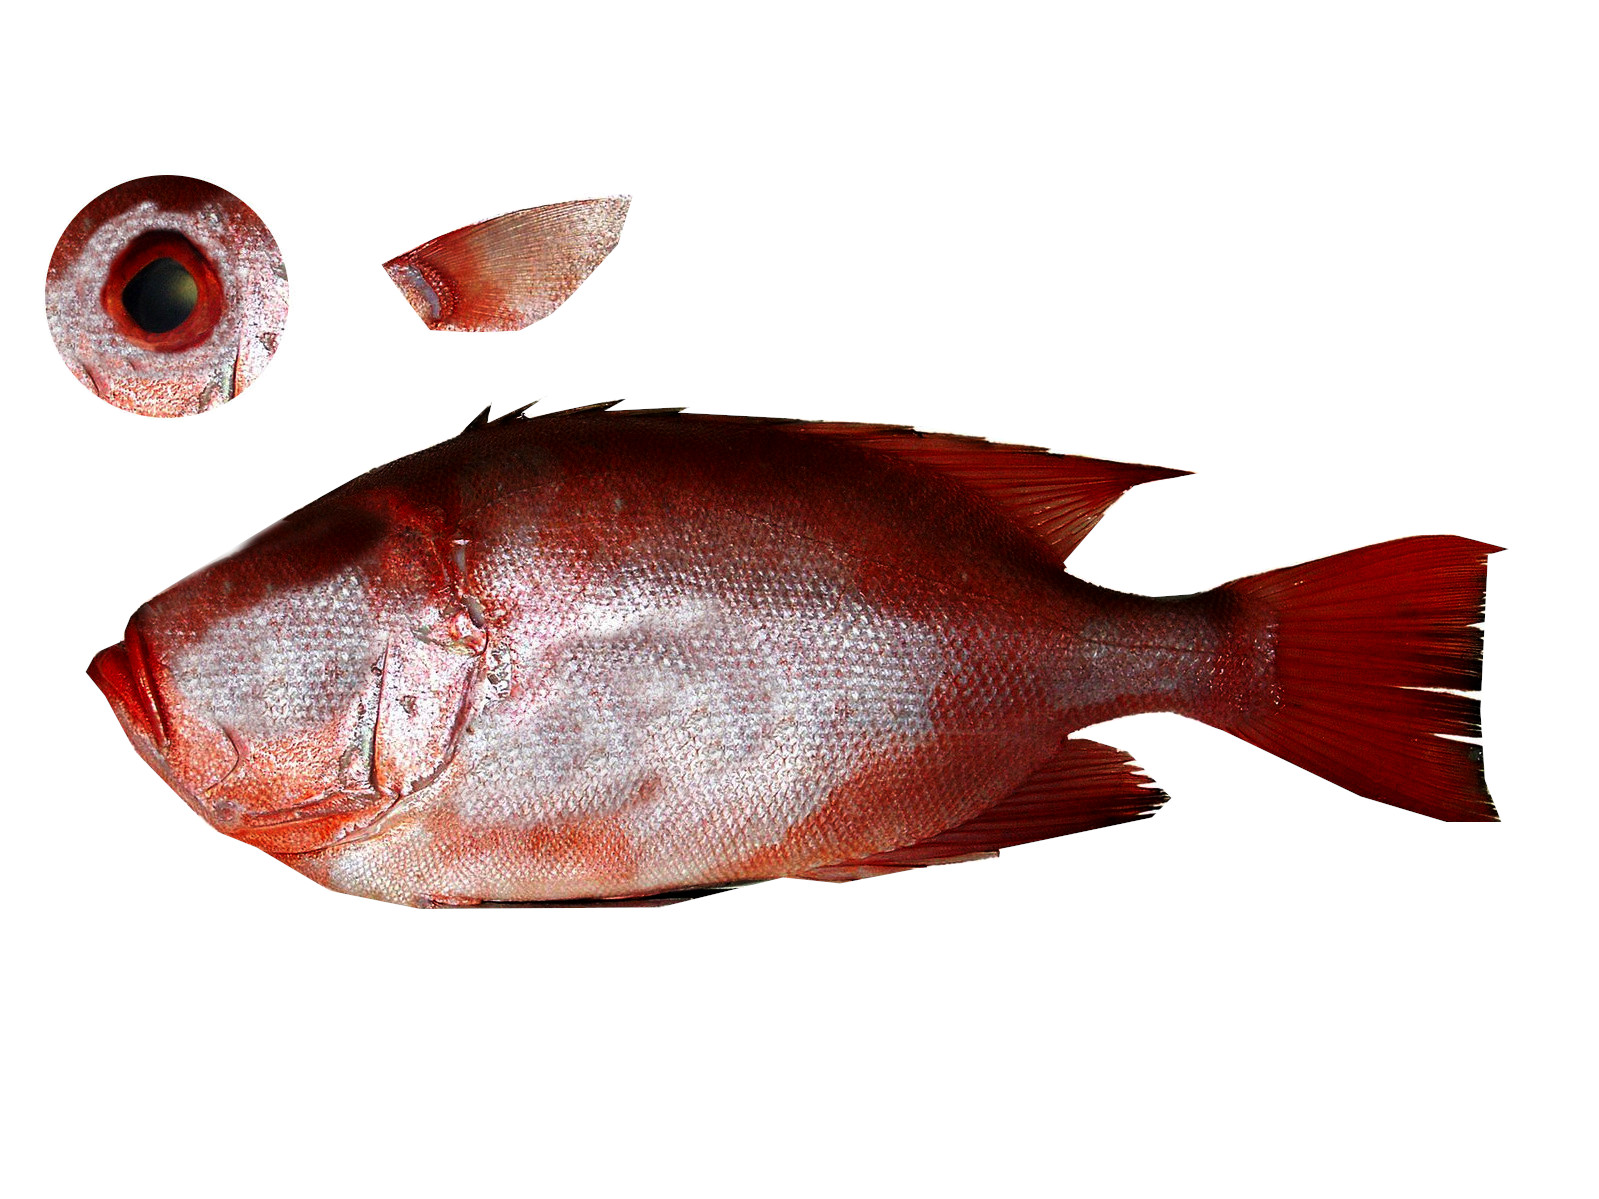
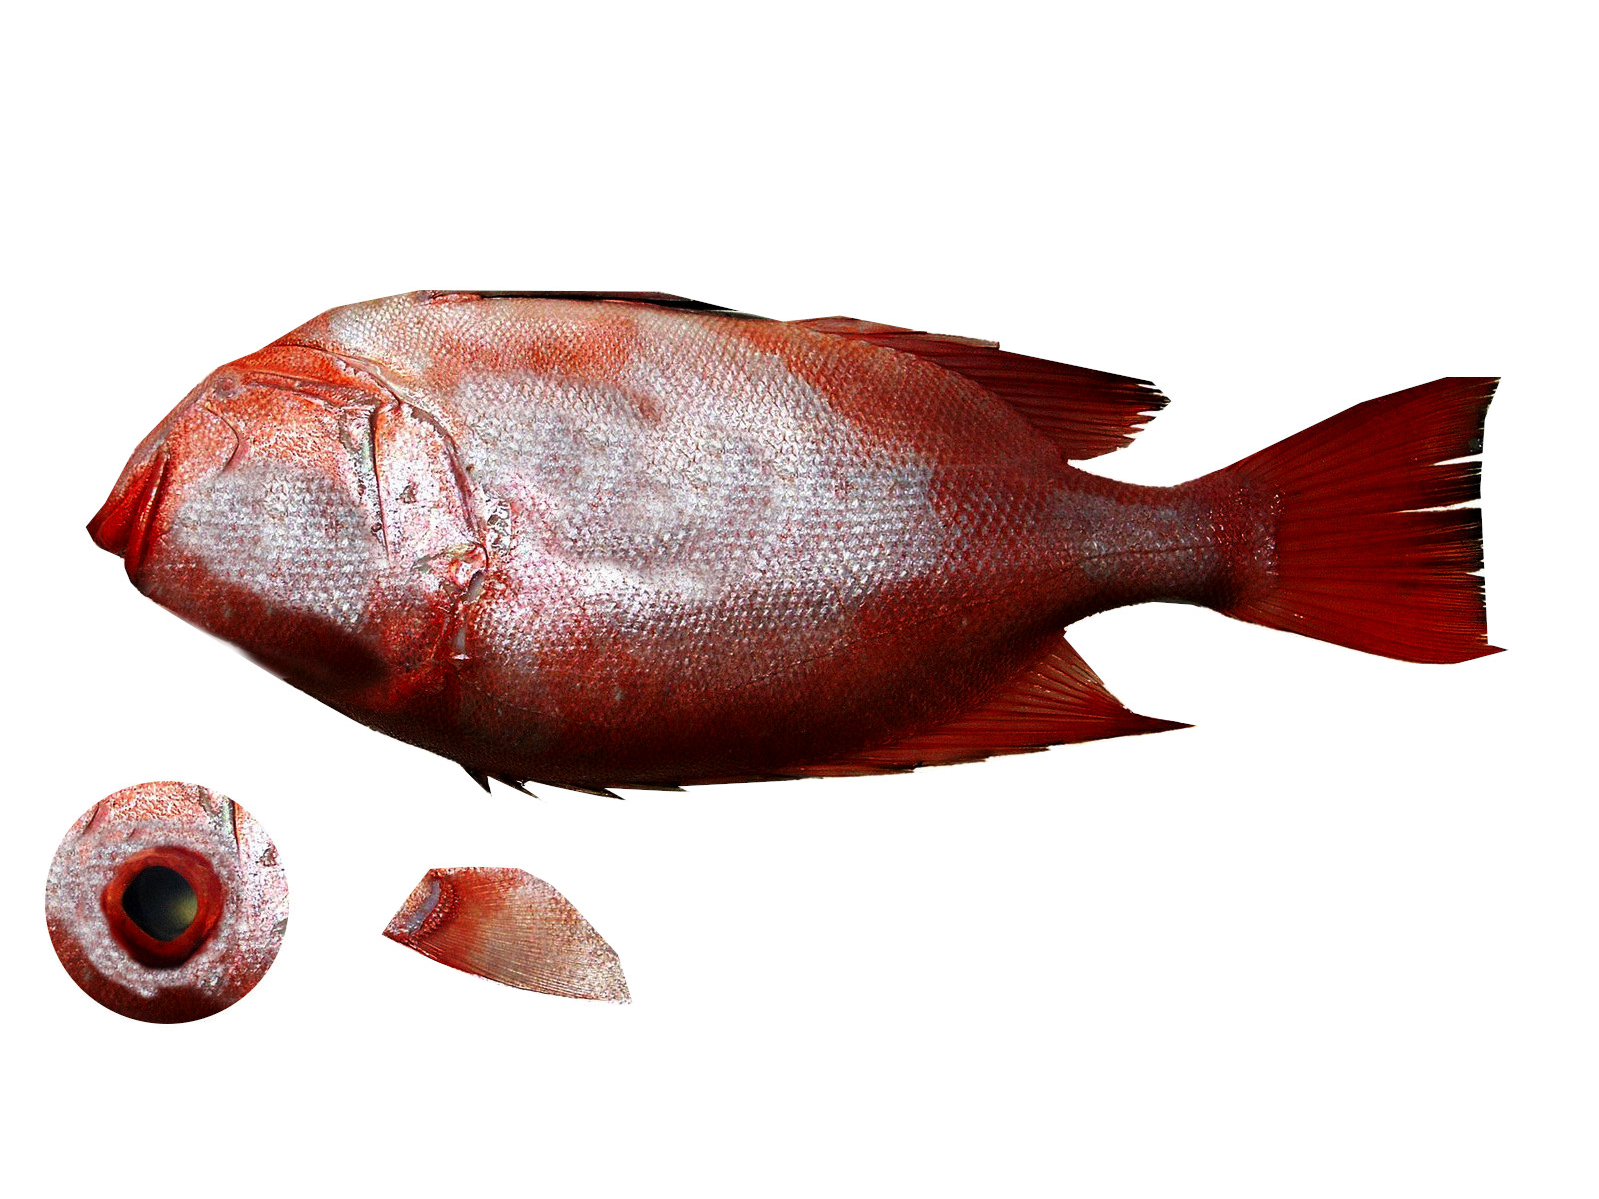
Create Boids Boids is a school of fish that moves to some extent as one organism, however, when a foreign object enters the Boid, separation occurs and fish become independent organisms, each with its own direction of movement. - Boids can move as one until the camera comes too close, when each fish

diff --git a/src/project/boids.cpp b/src/project/boids.cpp
@@ -1,0 +1,133 @@
+#include "boids.h"
+#include "scene.h"
+
+Boids::Boids(glm::vec3 pos, glm::vec3 rot) {
+    position = pos;
+    rotation = rot;
+
+    auto fish = std::make_unique<BoidsFish>();
+    fish->position = position;
+    container.push_back(move(fish));
+
+    fish = std::make_unique<BoidsFish>();
+    fish->position = position + glm::vec3{0, 4, 0};
+    container.push_back(move(fish));
+
+    fish = std::make_unique<BoidsFish>();
+    fish->position = position + glm::vec3{-1, -4, 0};
+    container.push_back(move(fish));
+
+    fish = std::make_unique<BoidsFish>();
+    fish->position = position + glm::vec3{4, 0, 0};
+    container.push_back(move(fish));
+
+    fish = std::make_unique<BoidsFish>();
+    fish->position = position + glm::vec3{-2, 0, 0};
+    container.push_back(move(fish));
+
+    fish = std::make_unique<BoidsFish>();
+    fish->position = position + glm::vec3{2, 0, 4};
+    container.push_back(move(fish));
+
+    fish = std::make_unique<BoidsFish>();
+    fish->position = position + glm::vec3{-3, 0, -4};
+    container.push_back(move(fish));
+
+    fish = std::make_unique<BoidsFish>();
+    fish->position = position + glm::vec3{5, 0, -4};
+    container.push_back(move(fish));
+
+    fish = std::make_unique<BoidsFish>();
+    fish->position = position + glm::vec3{0, 3, -3};
+    container.push_back(move(fish));
+
+    fish = std::make_unique<BoidsFish>();
+    fish->position = position + glm::vec3{1, 3, 3};
+    container.push_back(move(fish));
+
+    fish = std::make_unique<BoidsFish>();
+    fish->position = position + glm::vec3{2, -5, -4};
+    container.push_back(move(fish));
+
+    fish = std::make_unique<BoidsFish>();
+    fish->position = position + glm::vec3{0, 5, -4};
+    container.push_back(move(fish));
+
+    fish = std::make_unique<BoidsFish>();
+    fish->position = position + glm::vec3{4, 2, -4};
+    container.push_back(move(fish));
+
+    fish = std::make_unique<BoidsFish>();
+    fish->position = position + glm::vec3{-4, 2, -4};
+    container.push_back(move(fish));
+}
+
+bool Boids::update(Scene &scene, float dt) {
+    static float time = 0;
+
+    time += dt;
+
+    if (distance(scene.camera->cameraPosition, position) < 4.0f && !separated) {
+        separated = true;
+        speed = 0.1f;
+
+        for (auto &c : container) {
+            c->speed = speed;
+
+            c->rotation.x += glm::linearRand(-ppgso::PI/4, ppgso::PI/4);
+            c->rotation.z += glm::linearRand(-ppgso::PI/4, ppgso::PI/4);
+
+            c->movement_vector.x = sin(c->rotation.z);
+            c->movement_vector.y = -sin(c->rotation.x);
+            c->movement_vector.z = cos(c->rotation.z);
+
+            c->update(scene, dt);
+        }
+    }
+    else if (separated && time > 1) {
+        for (auto &c : container) {
+            c->rotation.x += glm::linearRand(-ppgso::PI/4, ppgso::PI/4);
+            c->rotation.z += glm::linearRand(-ppgso::PI/4, ppgso::PI/4);
+
+            c->movement_vector.x = sin(c->rotation.z);
+            c->movement_vector.y = -sin(c->rotation.x);
+            c->movement_vector.z = cos(c->rotation.z);
+
+            c->update(scene, dt);
+        }
+        time = 0;
+    }
+    else if (time > 3) {
+        rotation.x += glm::linearRand(-ppgso::PI/4, ppgso::PI/4);
+        rotation.z += glm::linearRand(-ppgso::PI/4, ppgso::PI/4);
+
+        glm::vec3 move;
+
+        move.x = sin(rotation.z);
+        move.y = -sin(rotation.x);
+        move.z = cos(rotation.z);
+
+        position += move * speed;
+
+        for (auto &c : container) {
+            c->rotation = rotation;
+            c->movement_vector = move;
+            c->update(scene, dt);
+        }
+
+        time = 0;
+    }
+    else {
+        for (auto &c : container) {
+            c->update(scene, dt);
+        }
+    }
+
+    return true;
+}
+
+void Boids::render(Scene &scene) {
+    for(auto &c : container) {
+        c->render(scene);
+    }
+}

diff --git a/src/project/boids_fish.cpp b/src/project/boids_fish.cpp
@@ -1,0 +1,60 @@
+#include "boids_fish.h"
+#include "scene.h"
+
+#include <ppgso/image_png.h>
+#include <shaders/light_vert_glsl.h>
+#include <shaders/light_frag_glsl.h>
+
+std::unique_ptr<ppgso::Mesh> BoidsFish::mesh;
+std::unique_ptr<ppgso::TextureAlpha> BoidsFish::texture;
+std::unique_ptr<ppgso::Shader> BoidsFish::shader;
+
+BoidsFish::BoidsFish() {
+    // Initialize static resources if needed
+    if (!texture) texture = std::make_unique<ppgso::TextureAlpha>(ppgso::image::loadPNG("animals/red_fish.png"));
+    if (!mesh) mesh = std::make_unique<ppgso::Mesh>("animals/red_fish.obj");
+    if (!shader) shader = std::make_unique<ppgso::Shader>(light_vert_glsl, light_frag_glsl);
+
+    scale = {0.3f, 0.3f, 0.3f};
+}
+
+bool BoidsFish::update(Scene &scene, float dt) {
+    position += movement_vector * speed;
+
+    generateModelMatrix();
+    return true;
+}
+
+void BoidsFish::render(Scene &scene) {
+    shader->use();
+
+    // Set up light
+    shader->setUniform("viewPos", scene.camera->cameraPosition);
+    shader->setUniform("numLights", scene.lights.size());
+
+    shader->setUniform("dirLight.direction", scene.lightDirection);
+    shader->setUniform("dirLight.ambient", scene.lightAmbient);
+    shader->setUniform("dirLight.diffuse", scene.lightDiffuse);
+    shader->setUniform("dirLight.specular", scene.lightSpecular);
+
+    for (unsigned long i = 0; i < scene.lights.size(); i++) {
+        shader->setUniform(setLightProperty("position", i), scene.lights[i].position);
+        shader->setUniform(setLightProperty("color", i), scene.lights[i].color);
+        shader->setUniform(setLightProperty("constant", i), scene.lights[i].constant);
+        shader->setUniform(setLightProperty("linear", i), scene.lights[i].linear);
+        shader->setUniform(setLightProperty("quadratic", i), scene.lights[i].quadratic);
+        shader->setUniform(setLightProperty("ambient", i), scene.lights[i].ambient);
+        shader->setUniform(setLightProperty("diffuse", i), scene.lights[i].diffuse);
+        shader->setUniform(setLightProperty("specular", i), scene.lights[i].specular);
+    }
+
+    // use camera
+    shader->setUniform("ProjectionMatrix", scene.camera->projectionMatrix);
+    shader->setUniform("ViewMatrix", scene.camera->viewMatrix);
+
+    // render mesh
+    shader->setUniform("ModelMatrix", modelMatrix);
+    shader->setUniform("material.diffuse", *texture);
+    shader->setUniform("material.shininess", shininess);
+    mesh->render();
+}

diff --git a/src/project/boids.h b/src/project/boids.h
@@ -1,0 +1,43 @@
+#pragma once
+#include <ppgso/ppgso.h>
+
+#include "object.h"
+#include "boids_fish.h"
+
+class Boids final : public Object{
+private:
+    // Static resources (Shared between instances)
+    static std::unique_ptr<ppgso::Mesh> mesh;
+    static std::unique_ptr<ppgso::Shader> shader;
+    static std::unique_ptr<ppgso::TextureAlpha> texture;
+
+
+public:
+    /*!
+     * Create a new static object
+     */
+    Boids(glm::vec3 pos, glm::vec3 rot);
+
+    /*!
+     * Update static object
+     * @param scene Scene to update
+     * @param dt Time delta
+     * @return true to delete the object
+     */
+    bool update(Scene &scene, float dt) override;
+
+    /*!
+     * Render static object
+     * @param scene Scene to render in
+     */
+    void render(Scene &scene) override;
+
+    glm::vec3 position{0, 0, 0};
+    glm::vec3 rotation{0, 0, 0};
+    float speed = 0.01f;
+    bool separated = false;
+
+private:
+    std::list< std::unique_ptr<BoidsFish> > container;
+};
+

diff --git a/src/project/boids_fish.h b/src/project/boids_fish.h
@@ -1,0 +1,37 @@
+#pragma once
+#include <ppgso/ppgso.h>
+
+#include "object.h"
+
+class BoidsFish final : public Object{
+private:
+    // Static resources (Shared between instances)
+    static std::unique_ptr<ppgso::Mesh> mesh;
+    static std::unique_ptr<ppgso::Shader> shader;
+    static std::unique_ptr<ppgso::TextureAlpha> texture;
+
+
+public:
+    /*!
+     * Create a new static object
+     */
+    BoidsFish();
+
+    /*!
+     * Update static object
+     * @param scene Scene to update
+     * @param dt Time delta
+     * @return true to delete the object
+     */
+    bool update(Scene &scene, float dt) override;
+
+    /*!
+     * Render static object
+     * @param scene Scene to render in
+     */
+    void render(Scene &scene) override;
+
+    glm::vec3 movement_vector{0, 0, 0};
+    float speed = 0.01f;
+};
+

diff --git a/src/project/project.cpp b/src/project/project.cpp
@@ -21,6 +21,7 @@
 #include "whale/whale.h"
 #include "shark.h"
 #include "fish_chased.h"
+#include "boids.h"
 
 const unsigned int SIZEW = 1280;
 const unsigned int SIZEH = 720;
@@ -197,6 +198,10 @@ private:
 
         auto chased_fish = std::make_unique<ChasedFish>();
         scene.objects.push_back(move(chased_fish));
+
+        auto boids = std::make_unique<Boids>(glm::vec3{10,10,10}, glm::vec3{0,0,0});
+        scene.objects.push_back(move(boids));
+
 
         /* Algae
         for (int i = 0; i < 100; i++) {
